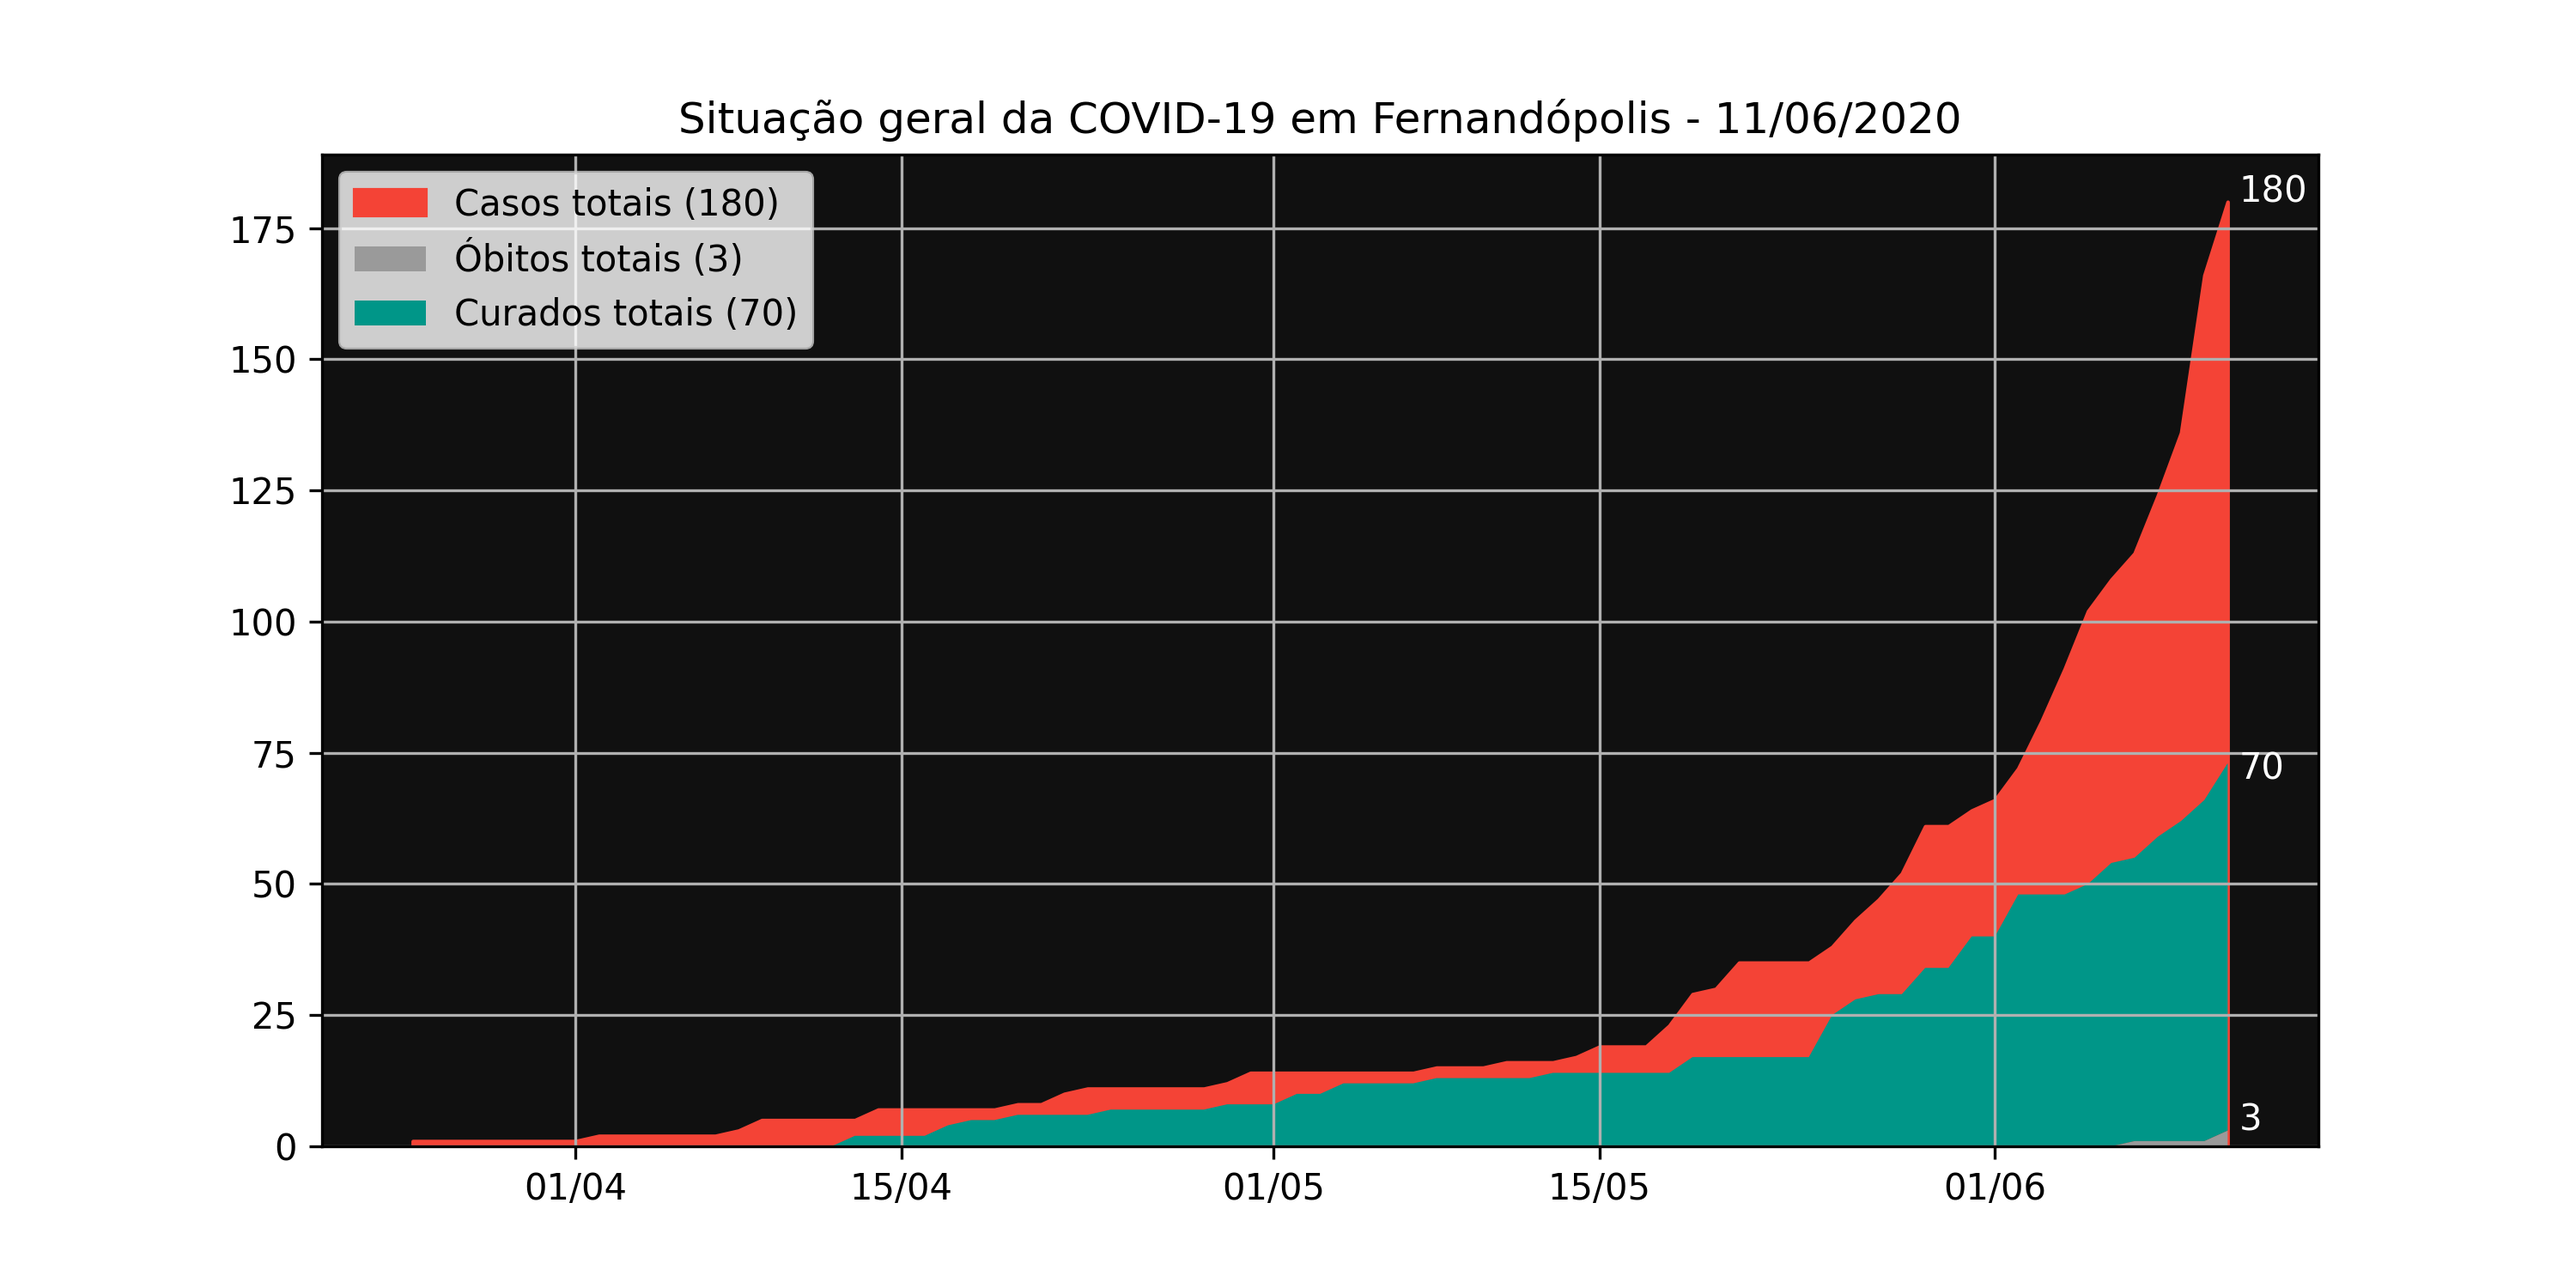
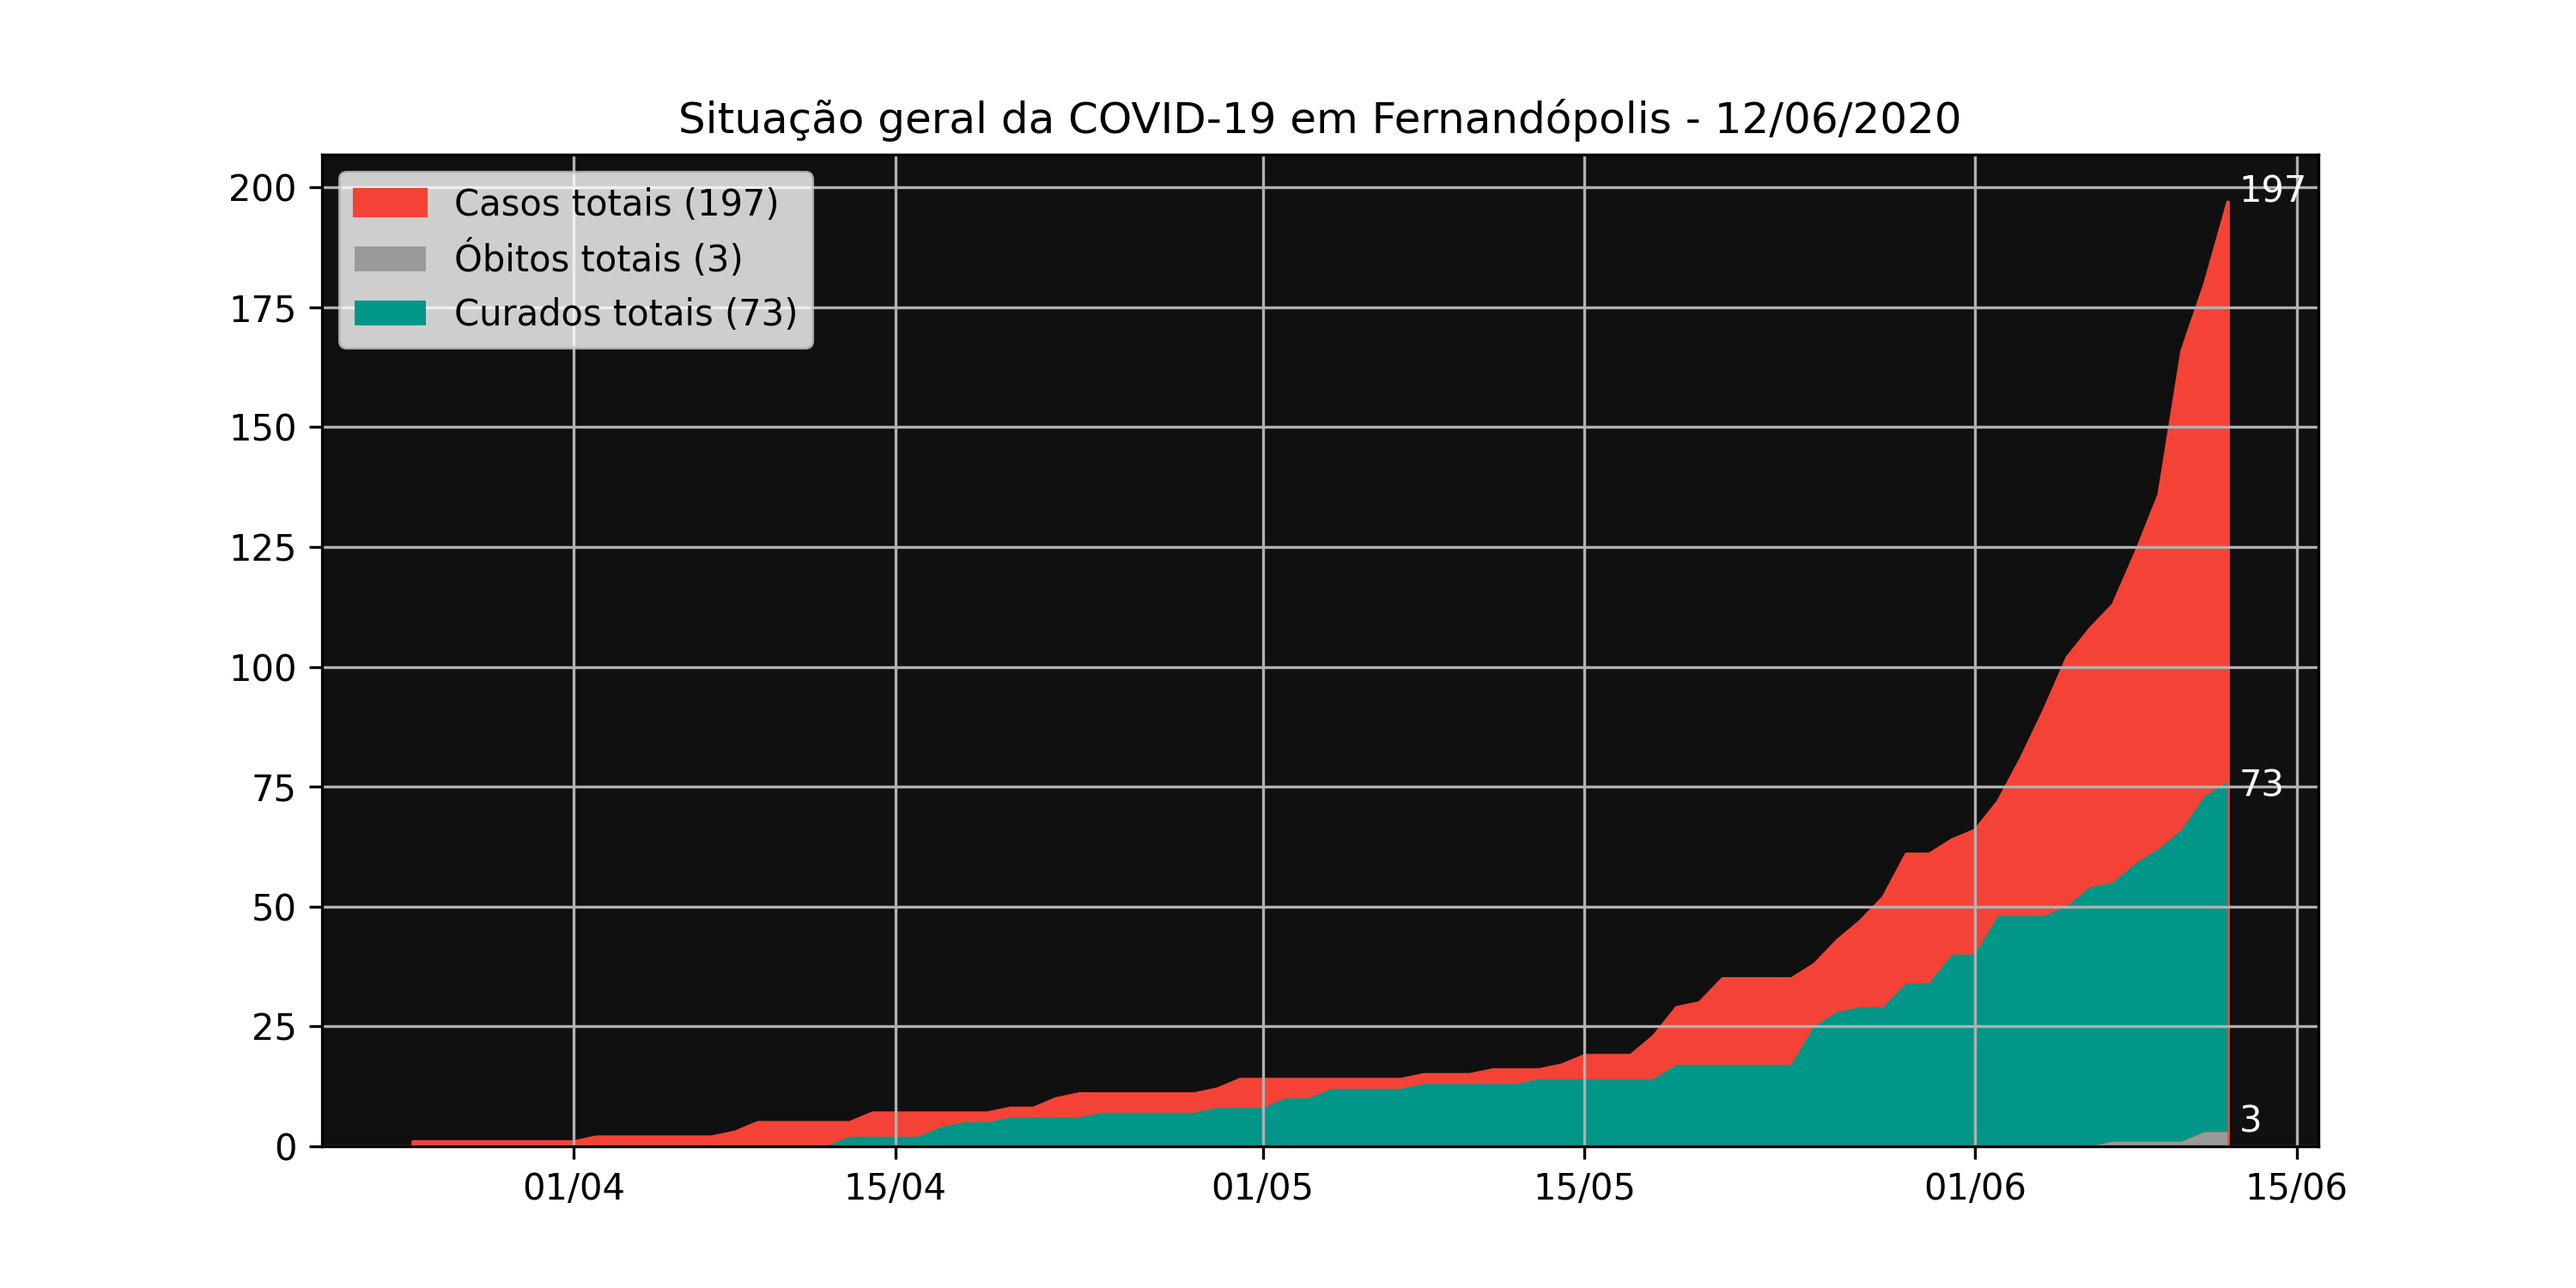
atualização sex 12 jun 2020 21:02:30 -03

diff --git a/chart-generator/main.py b/chart-generator/main.py
@@ -89,18 +89,18 @@ def line_chart(ds, dateFmt):
     fig.set_dpi(300)
 
     # exponential function
-    def func(x, a, b, c):
-        return a * np.exp(b * x) + c
+    def func(x, a, b):
+        return a * np.exp(b * x)
 
     # optimized parameters for exponential curve fitting
-    optimizedParameters, _pcov = opt.curve_fit(func, ds['Data'].map(lambda x: (
-        x - datetime.fromisoformat('2020-03-25')).days), ds['Casos acumulados'])
+    optimizedParameters, _ = opt.curve_fit(func,  ds['Data'].map(lambda x: (
+        x - datetime.fromisoformat('2020-03-25')).days),  ds['Casos acumulados'],  p0=(1, 0.1))
 
     # draw the curves
     ax.plot(ds['Data'], ds['Casos acumulados'], color='#f44336',
-            label='Casos totais ({})'.format(ds['Novos casos'].values[-1]))
-    ax.plot(ds['Data'], func(ds['Data'].map(lambda x: (
-        x - datetime.fromisoformat('2020-03-25')).days), *optimizedParameters))
+            label='Casos totais ({})'.format(ds['Casos acumulados'].values[-1]))
+    ax.plot(ds['Data'], func(ds['Data'].map(lambda x: (x - datetime.fromisoformat('2020-03-25')).days),
+                             *optimizedParameters), color='#f4a235', linestyle='dashed', label='Projeção exponencial dos casos')
 
     # write the number of cases at the end of the curve
     ax.text(ds['Data'].values[-1] + np.timedelta64(12, 'h'),
@@ -119,8 +119,7 @@ def line_chart(ds, dateFmt):
     ax.legend(loc='upper left')
 
     # save chart as a png
-    # fig.savefig('../images/line_chart.png')
-    plt.show()
+    fig.savefig('../images/line_chart.png')
 
 
 def main():
@@ -130,7 +129,7 @@ def main():
     dateFmt = mdates.DateFormatter('%d/%m')
     area_chart(ds, dateFmt)
     bar_chart(ds, dateFmt)
-    # line_chart(ds, dateFmt)
+    line_chart(ds, dateFmt)
 
 
 if __name__ == '__main__':

diff --git a/README.md b/README.md
@@ -9,6 +9,8 @@ Os dados aqui apresentados são retirados dos boletins epidemiológicos publicad
 
 ![Gráfico em barras dos novos casos da COVID-19](./images/bar_chart.png)
 
+![Gráfico de linha dos casos de COVID-19](./images/line_chart.png)
+
 ## Criação dos gráficos
 
 Para gerar os gráficos com os últimos dados disponíveis no arquivo .csv, execute os comandos abaixo na pasta [chart-generator](./chart-generator).
